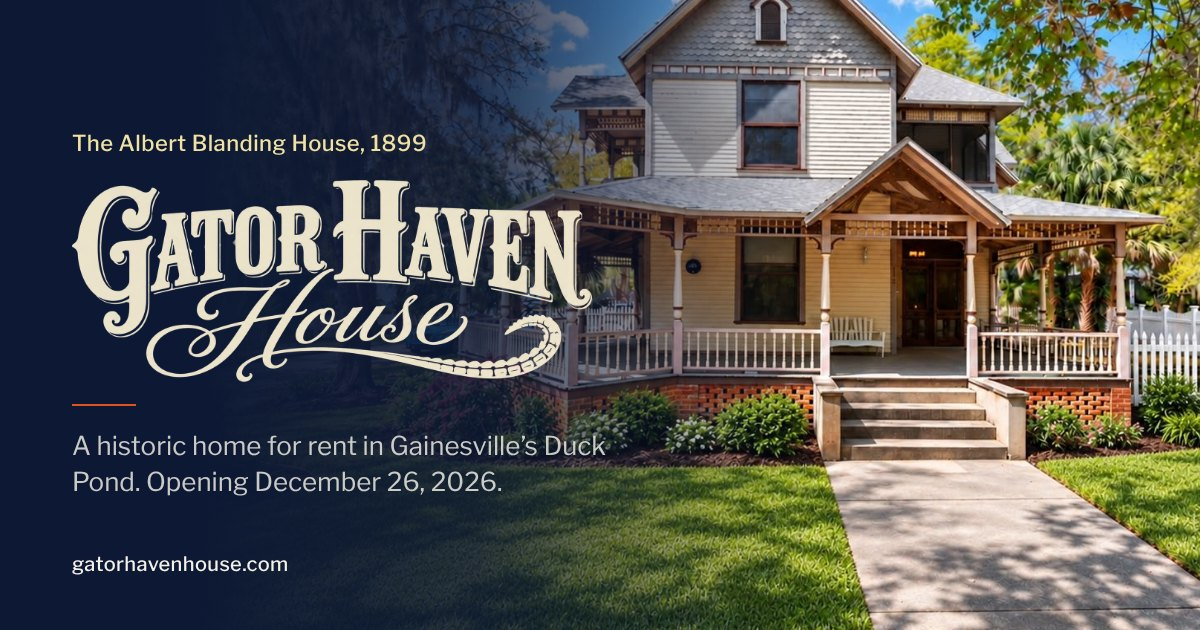
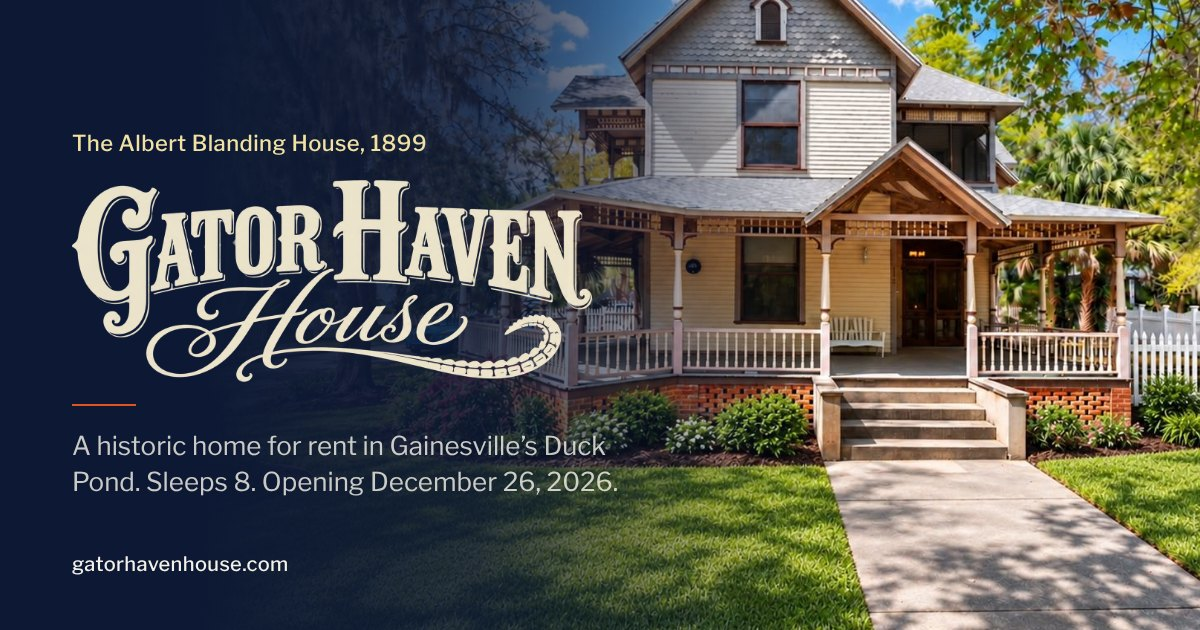
Set up link previews for every page
Each page now has its own 1200x630 preview card, built from the same
template as the home card: the game-day living room for Photos, the
illustrated map for the Guide and the early photograph for History.
The home card's line now includes 'Sleeps 8'.

Tags: og:locale, share titles written for a preview (not the browser
tab), og:image secure_url, type, width, height and alt, and
twitter:title, description, image and image alt. The home page's
structured data lists the share card as a second image. The README
covers refreshing cached previews and Cloudflare's Bot Fight Mode.

Claude-Session: https://claude.ai/code/session_01HHhNeFoxKeXYtJ9rwuHu6G

Changed region(s): [[0.1233, 0.7238, 0.5242, 0.7841]]

diff --git a/site/index.html b/site/index.html
@@ -13,11 +13,21 @@
 <link rel="manifest" href="site.webmanifest">
 <meta property="og:type" content="website">
 <meta property="og:site_name" content="Gator Haven House">
-<meta property="og:title" content="Gator Haven House | Vacation rental near UF in Gainesville, FL">
+<meta property="og:locale" content="en_US">
+<meta property="og:title" content="Gator Haven House: an 1899 home for rent near UF">
 <meta property="og:description" content="The Albert Blanding House, an 1899 Queen Anne for rent near UF in Gainesville's Duck Pond. Sleeps 8, fenced yard, pets welcome, 98-inch TV. Opening December 26, 2026.">
-<meta property="og:image" content="https://www.gatorhavenhouse.com/images/og-share.jpg">
 <meta property="og:url" content="https://www.gatorhavenhouse.com/">
+<meta property="og:image" content="https://www.gatorhavenhouse.com/images/og-share.jpg">
+<meta property="og:image:secure_url" content="https://www.gatorhavenhouse.com/images/og-share.jpg">
+<meta property="og:image:type" content="image/jpeg">
+<meta property="og:image:width" content="1200">
+<meta property="og:image:height" content="630">
+<meta property="og:image:alt" content="The Gator Haven House wordmark beside a photo of the yellow 1899 Queen Anne house and its wraparound porch.">
 <meta name="twitter:card" content="summary_large_image">
+<meta name="twitter:title" content="Gator Haven House: an 1899 home for rent near UF">
+<meta name="twitter:description" content="The Albert Blanding House, an 1899 Queen Anne for rent near UF in Gainesville's Duck Pond. Sleeps 8, fenced yard, pets welcome, 98-inch TV. Opening December 26, 2026.">
+<meta name="twitter:image" content="https://www.gatorhavenhouse.com/images/og-share.jpg">
+<meta name="twitter:image:alt" content="The Gator Haven House wordmark beside a photo of the yellow 1899 Queen Anne house and its wraparound porch.">
 <link rel="preconnect" href="https://fonts.googleapis.com">
 <link rel="preconnect" href="https://fonts.gstatic.com" crossorigin>
 <link rel="stylesheet" href="https://fonts.googleapis.com/css2?family=Besley:ital,wght@0,400..900;1,400..900&family=Big+Shoulders+Display:wght@600..900&family=Libre+Franklin:wght@300..700&family=Pinyon+Script&display=swap">
@@ -42,7 +52,7 @@
   "alternateName": "The Albert Blanding House",
   "description": "An 1899 Queen Anne home for rent in Gainesville's Duck Pond, a five-minute walk from downtown and minutes from the University of Florida. 4 bedrooms, 4.5 bathrooms, sleeps 8.",
   "url": "https://www.gatorhavenhouse.com/",
-  "image": "https://www.gatorhavenhouse.com/images/exterior-today-1600.jpg",
+  "image": ["https://www.gatorhavenhouse.com/images/exterior-today-1600.jpg", "https://www.gatorhavenhouse.com/images/og-share.jpg"],
   "email": "craig@gatorhavenhouse.com",
   "address": { "@type": "PostalAddress", "streetAddress": "306 NE 3rd Street", "addressLocality": "Gainesville", "addressRegion": "FL", "postalCode": "32601", "addressCountry": "US" },
   "geo": { "@type": "GeoCoordinates", "latitude": 29.65416, "longitude": -82.32244 },

diff --git a/site/history.html b/site/history.html
@@ -13,11 +13,21 @@
 <link rel="manifest" href="site.webmanifest">
 <meta property="og:type" content="website">
 <meta property="og:site_name" content="Gator Haven House">
-<meta property="og:title" content="History | Gator Haven House">
+<meta property="og:locale" content="en_US">
+<meta property="og:title" content="The story of the Albert Blanding House">
 <meta property="og:description" content="The story of the Albert Blanding House: built in 1899 in Gainesville's Duck Pond, credited to Judge Horatio Davis, and home to Albert Hazen Blanding, the general Camp Blanding is named for.">
-<meta property="og:image" content="https://www.gatorhavenhouse.com/images/house-early-1900s-1200.jpg">
 <meta property="og:url" content="https://www.gatorhavenhouse.com/history">
+<meta property="og:image" content="https://www.gatorhavenhouse.com/images/og-history.jpg">
+<meta property="og:image:secure_url" content="https://www.gatorhavenhouse.com/images/og-history.jpg">
+<meta property="og:image:type" content="image/jpeg">
+<meta property="og:image:width" content="1200">
+<meta property="og:image:height" content="630">
+<meta property="og:image:alt" content="The Gator Haven House wordmark beside an early sepia photograph of the house.">
 <meta name="twitter:card" content="summary_large_image">
+<meta name="twitter:title" content="The story of the Albert Blanding House">
+<meta name="twitter:description" content="The story of the Albert Blanding House: built in 1899 in Gainesville's Duck Pond, credited to Judge Horatio Davis, and home to Albert Hazen Blanding, the general Camp Blanding is named for.">
+<meta name="twitter:image" content="https://www.gatorhavenhouse.com/images/og-history.jpg">
+<meta name="twitter:image:alt" content="The Gator Haven House wordmark beside an early sepia photograph of the house.">
 <link rel="preconnect" href="https://fonts.googleapis.com">
 <link rel="preconnect" href="https://fonts.gstatic.com" crossorigin>
 <link rel="stylesheet" href="https://fonts.googleapis.com/css2?family=Besley:ital,wght@0,400..900;1,400..900&family=Big+Shoulders+Display:wght@600..900&family=Libre+Franklin:wght@300..700&family=Pinyon+Script&display=swap">

diff --git a/site/photos.html b/site/photos.html
@@ -13,11 +13,21 @@
 <link rel="manifest" href="site.webmanifest">
 <meta property="og:type" content="website">
 <meta property="og:site_name" content="Gator Haven House">
-<meta property="og:title" content="Photos | Gator Haven House">
+<meta property="og:locale" content="en_US">
+<meta property="og:title" content="Photos of Gator Haven House">
 <meta property="og:description" content="Photos of Gator Haven House, the 1899 Albert Blanding House in Gainesville's Duck Pond: the home today, the renovation in progress and renderings of the finished rooms.">
-<meta property="og:image" content="https://www.gatorhavenhouse.com/images/og-share.jpg">
 <meta property="og:url" content="https://www.gatorhavenhouse.com/photos">
+<meta property="og:image" content="https://www.gatorhavenhouse.com/images/og-photos.jpg">
+<meta property="og:image:secure_url" content="https://www.gatorhavenhouse.com/images/og-photos.jpg">
+<meta property="og:image:type" content="image/jpeg">
+<meta property="og:image:width" content="1200">
+<meta property="og:image:height" content="630">
+<meta property="og:image:alt" content="The Gator Haven House wordmark beside a concept rendering of the living room set up for game day.">
 <meta name="twitter:card" content="summary_large_image">
+<meta name="twitter:title" content="Photos of Gator Haven House">
+<meta name="twitter:description" content="Photos of Gator Haven House, the 1899 Albert Blanding House in Gainesville's Duck Pond: the home today, the renovation in progress and renderings of the finished rooms.">
+<meta name="twitter:image" content="https://www.gatorhavenhouse.com/images/og-photos.jpg">
+<meta name="twitter:image:alt" content="The Gator Haven House wordmark beside a concept rendering of the living room set up for game day.">
 <link rel="preconnect" href="https://fonts.googleapis.com">
 <link rel="preconnect" href="https://fonts.gstatic.com" crossorigin>
 <link rel="stylesheet" href="https://fonts.googleapis.com/css2?family=Besley:ital,wght@0,400..900;1,400..900&family=Big+Shoulders+Display:wght@600..900&family=Libre+Franklin:wght@300..700&family=Pinyon+Script&display=swap">

diff --git a/site/guide.html b/site/guide.html
@@ -13,11 +13,21 @@
 <link rel="manifest" href="site.webmanifest">
 <meta property="og:type" content="website">
 <meta property="og:site_name" content="Gator Haven House">
-<meta property="og:title" content="Visitor&rsquo;s guide | Gator Haven House">
+<meta property="og:locale" content="en_US">
+<meta property="og:title" content="A visitor’s guide to Gainesville, from Gator Haven House">
 <meta property="og:description" content="Coffee, restaurants, drinks and things to do near Gator Haven House in Gainesville's Duck Pond, with walking and driving times from the front door.">
-<meta property="og:image" content="https://www.gatorhavenhouse.com/images/og-share.jpg">
 <meta property="og:url" content="https://www.gatorhavenhouse.com/guide">
+<meta property="og:image" content="https://www.gatorhavenhouse.com/images/og-guide.jpg">
+<meta property="og:image:secure_url" content="https://www.gatorhavenhouse.com/images/og-guide.jpg">
+<meta property="og:image:type" content="image/jpeg">
+<meta property="og:image:width" content="1200">
+<meta property="og:image:height" content="630">
+<meta property="og:image:alt" content="The Gator Haven House wordmark beside an illustrated map of Gainesville.">
 <meta name="twitter:card" content="summary_large_image">
+<meta name="twitter:title" content="A visitor’s guide to Gainesville, from Gator Haven House">
+<meta name="twitter:description" content="Coffee, restaurants, drinks and things to do near Gator Haven House in Gainesville's Duck Pond, with walking and driving times from the front door.">
+<meta name="twitter:image" content="https://www.gatorhavenhouse.com/images/og-guide.jpg">
+<meta name="twitter:image:alt" content="The Gator Haven House wordmark beside an illustrated map of Gainesville.">
 <link rel="preconnect" href="https://fonts.googleapis.com">
 <link rel="preconnect" href="https://fonts.gstatic.com" crossorigin>
 <link rel="stylesheet" href="https://fonts.googleapis.com/css2?family=Besley:ital,wght@0,400..900;1,400..900&family=Big+Shoulders+Display:wght@600..900&family=Libre+Franklin:wght@300..700&family=Pinyon+Script&display=swap">

diff --git a/site/404.html b/site/404.html
@@ -14,11 +14,21 @@
 <link rel="manifest" href="site.webmanifest">
 <meta property="og:type" content="website">
 <meta property="og:site_name" content="Gator Haven House">
+<meta property="og:locale" content="en_US">
 <meta property="og:title" content="Page not found | Gator Haven House">
 <meta property="og:description" content="This page isn't here. Head back to Gator Haven House.">
-<meta property="og:image" content="https://www.gatorhavenhouse.com/images/og-share.jpg">
 <meta property="og:url" content="https://www.gatorhavenhouse.com/404">
+<meta property="og:image" content="https://www.gatorhavenhouse.com/images/og-share.jpg">
+<meta property="og:image:secure_url" content="https://www.gatorhavenhouse.com/images/og-share.jpg">
+<meta property="og:image:type" content="image/jpeg">
+<meta property="og:image:width" content="1200">
+<meta property="og:image:height" content="630">
+<meta property="og:image:alt" content="The Gator Haven House wordmark beside a photo of the yellow 1899 Queen Anne house and its wraparound porch.">
 <meta name="twitter:card" content="summary_large_image">
+<meta name="twitter:title" content="Page not found | Gator Haven House">
+<meta name="twitter:description" content="This page isn't here. Head back to Gator Haven House.">
+<meta name="twitter:image" content="https://www.gatorhavenhouse.com/images/og-share.jpg">
+<meta name="twitter:image:alt" content="The Gator Haven House wordmark beside a photo of the yellow 1899 Queen Anne house and its wraparound porch.">
 <link rel="preconnect" href="https://fonts.googleapis.com">
 <link rel="preconnect" href="https://fonts.gstatic.com" crossorigin>
 <link rel="stylesheet" href="https://fonts.googleapis.com/css2?family=Besley:ital,wght@0,400..900;1,400..900&family=Big+Shoulders+Display:wght@600..900&family=Libre+Franklin:wght@300..700&family=Pinyon+Script&display=swap">

diff --git a/site/thanks.html b/site/thanks.html
@@ -13,11 +13,21 @@
 <link rel="manifest" href="site.webmanifest">
 <meta property="og:type" content="website">
 <meta property="og:site_name" content="Gator Haven House">
+<meta property="og:locale" content="en_US">
 <meta property="og:title" content="Thanks | Gator Haven House">
 <meta property="og:description" content="You're on the Gator Haven House guest list.">
-<meta property="og:image" content="https://www.gatorhavenhouse.com/images/og-share.jpg">
 <meta property="og:url" content="https://www.gatorhavenhouse.com/thanks">
+<meta property="og:image" content="https://www.gatorhavenhouse.com/images/og-share.jpg">
+<meta property="og:image:secure_url" content="https://www.gatorhavenhouse.com/images/og-share.jpg">
+<meta property="og:image:type" content="image/jpeg">
+<meta property="og:image:width" content="1200">
+<meta property="og:image:height" content="630">
+<meta property="og:image:alt" content="The Gator Haven House wordmark beside a photo of the yellow 1899 Queen Anne house and its wraparound porch.">
 <meta name="twitter:card" content="summary_large_image">
+<meta name="twitter:title" content="Thanks | Gator Haven House">
+<meta name="twitter:description" content="You're on the Gator Haven House guest list.">
+<meta name="twitter:image" content="https://www.gatorhavenhouse.com/images/og-share.jpg">
+<meta name="twitter:image:alt" content="The Gator Haven House wordmark beside a photo of the yellow 1899 Queen Anne house and its wraparound porch.">
 <link rel="preconnect" href="https://fonts.googleapis.com">
 <link rel="preconnect" href="https://fonts.gstatic.com" crossorigin>
 <link rel="stylesheet" href="https://fonts.googleapis.com/css2?family=Besley:ital,wght@0,400..900;1,400..900&family=Big+Shoulders+Display:wght@600..900&family=Libre+Franklin:wght@300..700&family=Pinyon+Script&display=swap">

diff --git a/design-source/og-share.html b/design-source/og-share.html
@@ -1,0 +1,16 @@
+<!doctype html><html><head><meta charset="utf-8">
+<link rel="stylesheet" href="https://fonts.googleapis.com/css2?family=Besley:wght@400..700&family=Libre+Franklin:wght@400;500&display=swap">
+<style>
+html,body{margin:0;width:1200px;height:630px;overflow:hidden;background:#0d1934;position:relative}
+.ph{position:absolute;inset:0;background:url(../site/images/exterior-today-1600.jpg) 0% 40%/128% auto;left:200px}
+.ph::after{content:"";position:absolute;inset:0;background:linear-gradient(90deg,rgba(13,25,52,1) 0%,rgba(13,25,52,.85) 28%,rgba(13,25,52,0) 62%)}
+.t{position:absolute;left:72px;top:0;bottom:0;display:flex;flex-direction:column;justify-content:center;gap:22px;color:#f4f1e8;width:560px}
+.l{font:500 22px/1.3 "Libre Franklin";color:#f1e2a4;letter-spacing:.02em}
+h1{font:400 92px/.95 Besley;letter-spacing:-.03em;margin:0}
+h1 span{color:#e0531f}
+p{font:400 26px/1.4 "Libre Franklin";color:rgba(244,241,232,.82);margin:0}
+.b{position:absolute;left:72px;bottom:56px;font:500 20px/1 "Libre Franklin";color:#f4f1e8;letter-spacing:.02em}
+.rule{width:64px;height:2px;background:#e0531f}
+</style></head><body><div class="ph"></div>
+<div class="t"><div class="l">The Albert Blanding House, 1899</div><img src="../site/images/wordmark-cream-1400.png" style="width:520px;display:block" alt=""><div class="rule"></div><p>A historic home for rent in Gainesville&rsquo;s Duck Pond. Sleeps 8. Opening December 26, 2026.</p></div>
+<div class="b">gatorhavenhouse.com</div></body></html>

diff --git a/design-source/og-photos.html b/design-source/og-photos.html
@@ -1,0 +1,16 @@
+<!doctype html><html><head><meta charset="utf-8">
+<link rel="stylesheet" href="https://fonts.googleapis.com/css2?family=Besley:wght@400..700&family=Libre+Franklin:wght@400;500&display=swap">
+<style>
+html,body{margin:0;width:1200px;height:630px;overflow:hidden;background:#0d1934;position:relative}
+.ph{position:absolute;inset:0;background:url(../site/images/gameday-concept-1024.jpg) 50% 42%/100% auto;left:200px}
+.ph::after{content:"";position:absolute;inset:0;background:linear-gradient(90deg,rgba(13,25,52,1) 0%,rgba(13,25,52,.85) 28%,rgba(13,25,52,0) 62%)}
+.t{position:absolute;left:72px;top:0;bottom:0;display:flex;flex-direction:column;justify-content:center;gap:22px;color:#f4f1e8;width:560px}
+.l{font:500 22px/1.3 "Libre Franklin";color:#f1e2a4;letter-spacing:.02em}
+h1{font:400 92px/.95 Besley;letter-spacing:-.03em;margin:0}
+h1 span{color:#e0531f}
+p{font:400 26px/1.4 "Libre Franklin";color:rgba(244,241,232,.82);margin:0}
+.b{position:absolute;left:72px;bottom:56px;font:500 20px/1 "Libre Franklin";color:#f4f1e8;letter-spacing:.02em}
+.rule{width:64px;height:2px;background:#e0531f}
+</style></head><body><div class="ph"></div>
+<div class="t"><div class="l">Photos, inside and out</div><img src="../site/images/wordmark-cream-1400.png" style="width:520px;display:block" alt=""><div class="rule"></div><p>The house today, the work in progress, and the rooms as they&rsquo;ll be.</p></div>
+<div class="b">gatorhavenhouse.com</div></body></html>

diff --git a/design-source/og-guide.html b/design-source/og-guide.html
@@ -1,0 +1,16 @@
+<!doctype html><html><head><meta charset="utf-8">
+<link rel="stylesheet" href="https://fonts.googleapis.com/css2?family=Besley:wght@400..700&family=Libre+Franklin:wght@400;500&display=swap">
+<style>
+html,body{margin:0;width:1200px;height:630px;overflow:hidden;background:#0d1934;position:relative}
+.ph{position:absolute;inset:0;background:url(../site/images/map-illustrated-1600.jpg) 100% 30%/150% auto;left:200px}
+.ph::after{content:"";position:absolute;inset:0;background:linear-gradient(90deg,rgba(13,25,52,1) 0%,rgba(13,25,52,.85) 28%,rgba(13,25,52,0) 62%)}
+.t{position:absolute;left:72px;top:0;bottom:0;display:flex;flex-direction:column;justify-content:center;gap:22px;color:#f4f1e8;width:560px}
+.l{font:500 22px/1.3 "Libre Franklin";color:#f1e2a4;letter-spacing:.02em}
+h1{font:400 92px/.95 Besley;letter-spacing:-.03em;margin:0}
+h1 span{color:#e0531f}
+p{font:400 26px/1.4 "Libre Franklin";color:rgba(244,241,232,.82);margin:0}
+.b{position:absolute;left:72px;bottom:56px;font:500 20px/1 "Libre Franklin";color:#f4f1e8;letter-spacing:.02em}
+.rule{width:64px;height:2px;background:#e0531f}
+</style></head><body><div class="ph"></div>
+<div class="t"><div class="l">A visitor&rsquo;s guide</div><img src="../site/images/wordmark-cream-1400.png" style="width:520px;display:block" alt=""><div class="rule"></div><p>Coffee, dinner and things to do, with the walk from our front door.</p></div>
+<div class="b">gatorhavenhouse.com</div></body></html>

diff --git a/design-source/og-history.html b/design-source/og-history.html
@@ -1,0 +1,16 @@
+<!doctype html><html><head><meta charset="utf-8">
+<link rel="stylesheet" href="https://fonts.googleapis.com/css2?family=Besley:wght@400..700&family=Libre+Franklin:wght@400;500&display=swap">
+<style>
+html,body{margin:0;width:1200px;height:630px;overflow:hidden;background:#0d1934;position:relative}
+.ph{position:absolute;inset:0;background:url(../site/images/house-early-1900s-1200.jpg) 50% 45%/100% auto;left:200px}
+.ph::after{content:"";position:absolute;inset:0;background:linear-gradient(90deg,rgba(13,25,52,1) 0%,rgba(13,25,52,.85) 28%,rgba(13,25,52,0) 62%)}
+.t{position:absolute;left:72px;top:0;bottom:0;display:flex;flex-direction:column;justify-content:center;gap:22px;color:#f4f1e8;width:560px}
+.l{font:500 22px/1.3 "Libre Franklin";color:#f1e2a4;letter-spacing:.02em}
+h1{font:400 92px/.95 Besley;letter-spacing:-.03em;margin:0}
+h1 span{color:#e0531f}
+p{font:400 26px/1.4 "Libre Franklin";color:rgba(244,241,232,.82);margin:0}
+.b{position:absolute;left:72px;bottom:56px;font:500 20px/1 "Libre Franklin";color:#f4f1e8;letter-spacing:.02em}
+.rule{width:64px;height:2px;background:#e0531f}
+</style></head><body><div class="ph"></div>
+<div class="t"><div class="l">The story of the house</div><img src="../site/images/wordmark-cream-1400.png" style="width:520px;display:block" alt=""><div class="rule"></div><p>Built in 1899 and home to General Albert Blanding.</p></div>
+<div class="b">gatorhavenhouse.com</div></body></html>

diff --git a/README.md b/README.md
@@ -52,6 +52,12 @@ Pages doesn't collect form posts, so sign-ups go to Formspree (free: 50 a month)
 
 `netlify.toml` holds the same settings. Formspree keeps working there. To use Netlify Forms instead, set `FORM_ENDPOINT = "netlify"`, add `data-netlify="true"` and a hidden `form-name` field to the form, enable **Forms → form detection**, and add craig@ and jenn@ under **Forms → Form notifications**.
 
+## Link previews
+
+Each page has its own 1200 by 630 preview image for texts, Facebook, LinkedIn, Slack and X: `images/og-share.jpg` (home), `og-photos.jpg`, `og-guide.jpg` and `og-history.jpg`. They're made from `design-source/og-*.html`; open one in Chrome at 1200 by 630 and screenshot it to update the image, then keep the same file name.
+
+Previews are cached by each app. After a change, refresh Facebook's copy at developers.facebook.com/tools/debug (paste the URL, click Scrape Again) and LinkedIn's at linkedin.com/post-inspector. iMessage refreshes on its own after a few days. In Cloudflare, leave **Security → Bots → Bot Fight Mode** off, or preview crawlers can be blocked.
+
 ## The email addresses
 
 craig@ and jenn@gatorhavenhouse.com need email hosting on the domain before they'll receive mail. With the domain at Cloudflare, the simplest is **Email → Email Routing** (free): forward craig@ and jenn@ to existing inboxes. For full inboxes that can also send as those addresses, use Google Workspace, Microsoft 365 or Zoho Mail. Send a test message to each address before you share the site.
